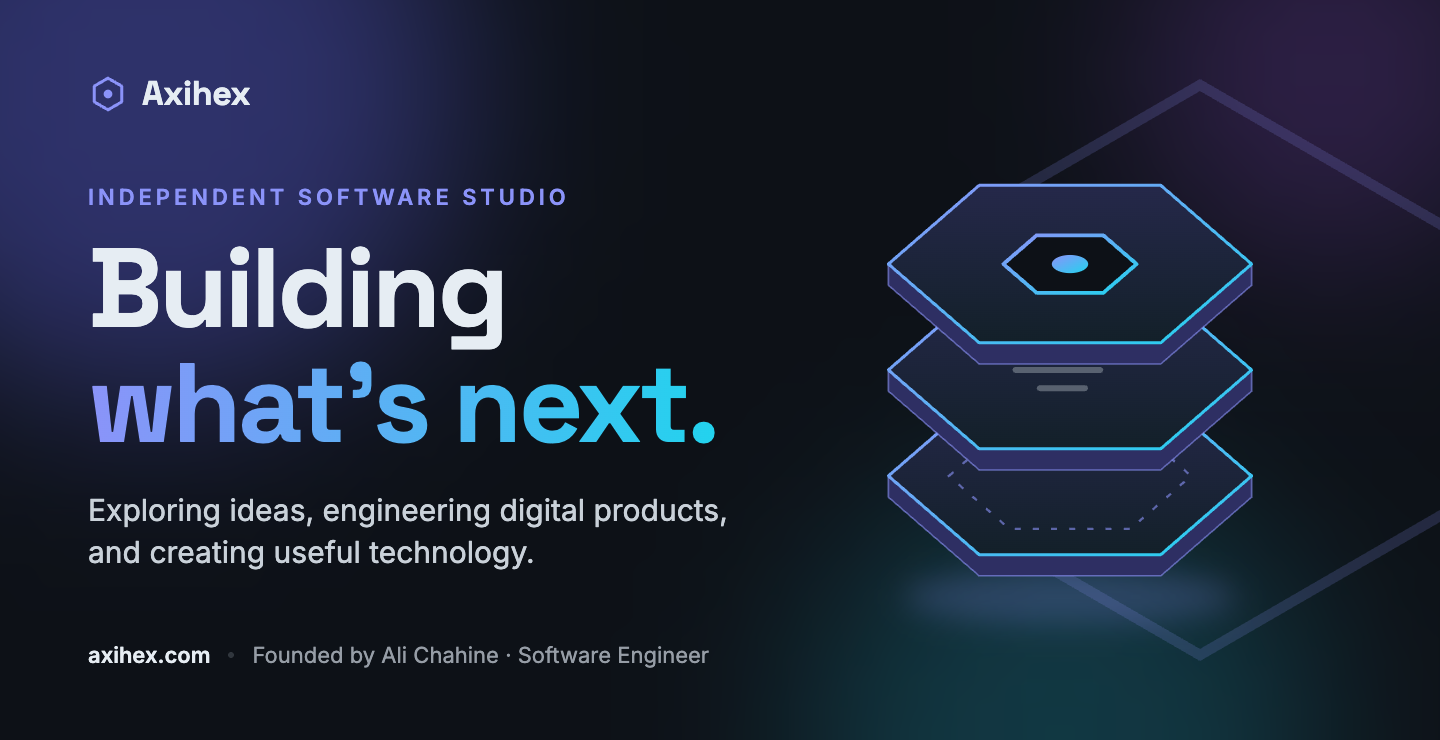
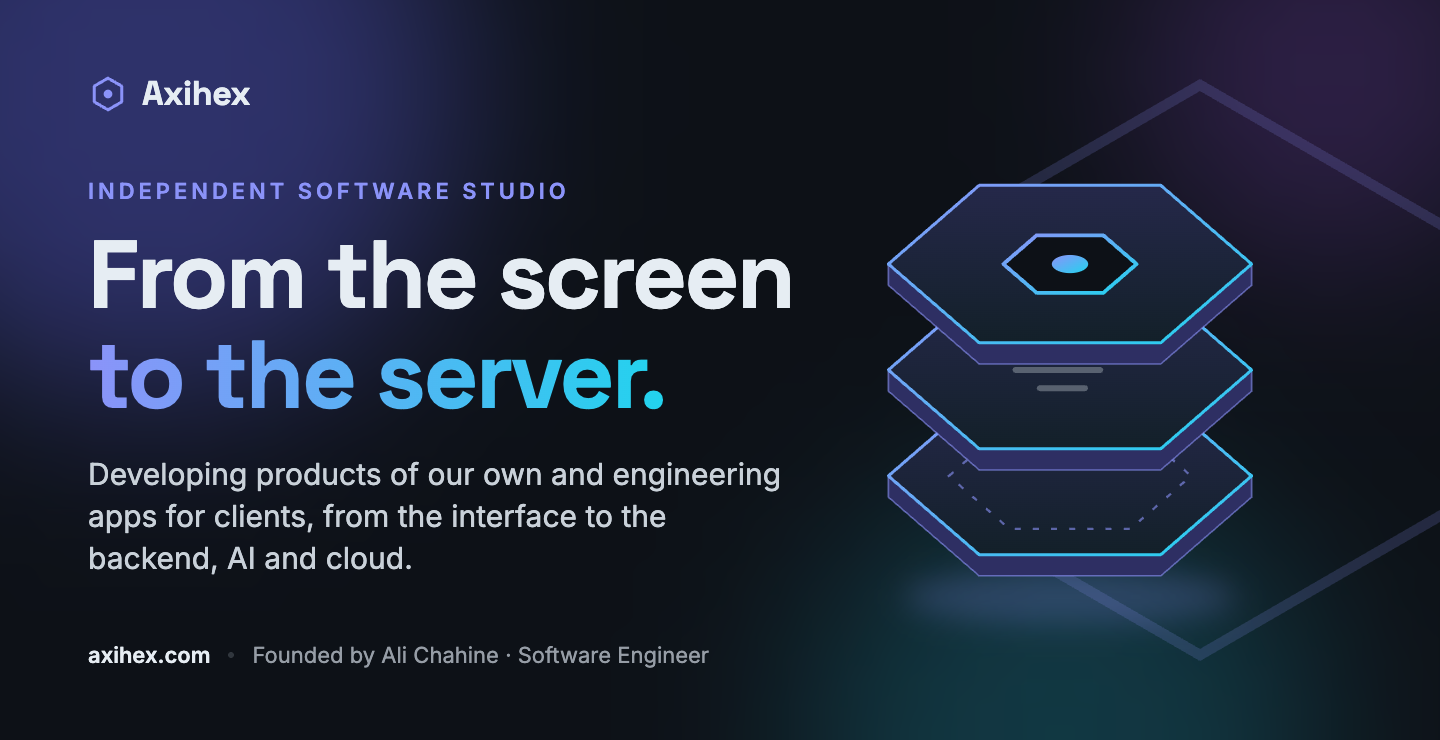
updates

Changed region(s): [[0.0625, 0.3108, 0.5625, 0.777], [0.0625, 0.2486, 0.4062, 0.2797]]

diff --git a/src/data/identity.ts b/src/data/identity.ts
@@ -14,20 +14,20 @@ export const definition =
 export const essence = 'Where engineering meets curiosity, creativity, and ambition.'
 
 export const philosophy =
-  'Ideas deserve to be explored, engineered, and transformed into technology that provides genuine value.'
+  'The best software is the kind people stop noticing: it simply works, every day.'
 
 export const mission =
   'To transform ideas into useful digital solutions through thoughtful engineering, experimentation, creativity, and practical problem-solving.'
 
 export const vision =
-  'To establish Axihex as a sustainable, recognized technology brand that develops, launches, and maintains its own products, while staying open to client projects, partnerships, and professional opportunities.'
+  'To establish Axihex as a sustainable and recognized technology brand that develops, launches, and maintains its own digital products, while remaining open to client projects, partnerships, and professional opportunities.'
 
 // Measured by the work, not the headcount.
 export const measure =
   'Success is measured by the quality, usefulness, and integrity of the work, not by the number of products, services, or people behind it.'
 
-// What Axihex is not limited to (shown struck through on /studio), then what it is.
-export const notLimitedTo = ['A software agency', 'A freelance business', 'A personal portfolio', 'A single-product startup']
+// What Axihex is more than (PDF §1: "not limited to"), shown as chips on /studio, then what it is.
+export const moreThan = ['A software agency', 'A freelance business', 'A personal portfolio', 'A single-product startup']
 export const isRather = 'A software studio rooted in engineering, with the freedom to pursue what comes next.'
 
 // What defines Axihex.
@@ -71,7 +71,7 @@ export const pillars: Pillar[] = [
   },
   {
     word: 'Showcase',
-    statement: 'Engineering expertise, proven through real work.',
+    statement: 'Real projects and achievements, from the studio and its founder.',
     text: "Credibility comes from genuine work: studio projects, client work, engineering achievements, and the founder's experience, each attributed accurately.",
     objective: 'Credibility through genuine work and achievements.',
     examples: ['Studio & client projects', 'Engineering milestones', "The founder's experience"],
@@ -80,7 +80,7 @@ export const pillars: Pillar[] = [
   },
   {
     word: 'Share',
-    statement: 'Technical knowledge and useful resources for the community.',
+    statement: 'Technical knowledge, insights, and useful tools for the community.',
     text: 'What is learned while building is worth passing on: articles, case studies, and lessons from real projects, shared without exposing anything confidential.',
     objective: 'Contribute to the community through meaningful technical work.',
     examples: ['Technical articles', 'Engineering case studies', 'Open-source & free tools'],
@@ -89,7 +89,7 @@ export const pillars: Pillar[] = [
   },
   {
     word: 'Grow',
-    statement: 'Foster innovation, collaboration, and opportunity.',
+    statement: 'Innovation, collaboration, and professional opportunities.',
     text: 'Growth through real work and relationships, not an artificial impression of size: new clients, partnerships, collaborators, and a team when the work justifies it.',
     objective: 'A sustainable foundation for technical, professional, and business growth.',
     examples: ['Client & partner relationships', 'Collaborating with makers', 'Reinvesting in new ideas'],
@@ -128,7 +128,7 @@ export const process: { title: string; text: string }[] = [
 // One brand, many forms: what can live under Axihex, and where it ships.
 export const umbrella: { title: string; text: string; icon: IconName }[] = [
   { title: 'Original products', text: 'Owned applications, platforms, and digital tools.', icon: 'box' },
-  { title: 'Client solutions', text: 'Freelance development and custom software projects.', icon: 'briefcase' },
+  { title: 'Client solutions', text: 'Custom web and mobile software, built for clients.', icon: 'briefcase' },
   { title: 'Research & innovation', text: 'Experiments, prototypes, and emerging technologies.', icon: 'flask' },
   { title: 'Knowledge & resources', text: 'Technical articles, insights, and community contributions.', icon: 'book' },
 ]

diff --git a/src/data/projects.ts b/src/data/projects.ts
@@ -21,7 +21,7 @@ export interface Project {
   //   'founder-led' → independent client work the founder delivered personally, not contracted under Axihex
   //   'experience'  → work done as an employee at a previous company
   category: ProjectCategory
-  // A short label on the card and the page, e.g. 'Founder-led · Client Project'.
+  // A short label on the card and the page, e.g. 'Client project'.
   context?: string
   role?: string // your role, e.g. 'Backend & AI engineer' or 'Solo developer'
   period?: string // when, e.g. 'Jan – Jun 2025' or '2024 – present'
@@ -63,9 +63,9 @@ export type ProjectCategory = 'studio' | 'founder-led' | 'experience'
 export const projects: Project[] = [
   {
     slug: 'boxmind-ai-backend',
-    title: 'boxMind AI: Enterprise AI Products',
+    title: 'boxMind AI: the backend behind its AI products',
     category: 'experience',
-    context: "Founder's Experience · boxMind AI",
+    context: 'As backend engineer at boxMind AI',
     summary: 'Built secure backend systems and AI integrations that helped bring enterprise AI products into production.',
     highlight: '~3 years building AI products for enterprises',
     cardTech: ['Python', 'FastAPI', 'RAG', 'AWS'],
@@ -156,7 +156,7 @@ The role went beyond code: it included the discussions and decisions on which fe
     slug: 'cinetwork',
     title: 'Cinetwork',
     category: 'founder-led',
-    context: 'Founder-led · Client Project',
+    context: 'Independent client project',
     summary: 'One film community, three platforms.',
     highlight: 'Live on Google Play, the App Store and the web',
     cardTech: ['React Native', 'Flask', 'MySQL', 'AWS'],
@@ -164,6 +164,12 @@ The role went beyond code: it included the discussions and decisions on which fe
     period: '2025 – present',
     team: 'Engineered for the client, in close collaboration',
     status: 'Live',
+    // The case study's key facts, shown big on the project's page.
+    metrics: [
+      { value: '3', label: 'platforms from one codebase: Android, iOS & web' },
+      { value: '2', label: 'app stores, live: Google Play & the App Store' },
+      { value: '1', label: 'engineer, from the database to the stores' },
+    ],
     problem:
       "The client's professional network for the film community needed to be engineered end to end: one app for Android, iOS and the web, with its backend and cloud.",
     result:
@@ -229,9 +235,9 @@ Before its official launch, Cinetwork got an exclusive sneak peek at the Byblos 
   },
   {
     slug: 'boxmind-academy',
-    title: 'boxMind Academy: AI Learning for Schools',
+    title: 'boxMind Academy: the backend for AI learning in schools',
     category: 'experience',
-    context: "Founder's Experience · boxMind AI",
+    context: 'As backend engineer at boxMind AI',
     summary: 'Designed the database and built the backend for an AI-supported learning platform used by schools.',
     highlight: 'Used by schools under contract',
     cardTech: ['Python', 'MySQL', 'AI Integration', 'AWS'],

diff --git a/src/features/studio/StudioPage.tsx b/src/features/studio/StudioPage.tsx
@@ -1,6 +1,6 @@
 // The Studio page (/studio, "Studio" in the navbar): Axihex's identity, purpose and vision in full.
 // The home page's Studio section is the short version and links here.
-//   1. Identity: the definition, and what Axihex is not limited to
+//   1. Identity: the official definition, and what Axihex is more than
 //   2. What defines Axihex: four traits
 //   3. Purpose: the five pillars, in depth
 //   4. Capabilities: focused in engineering, flexible in what gets built
@@ -21,9 +21,10 @@ import {
   channels,
   definition,
   essence,
+  measure,
+  moreThan,
   isRather,
   mission,
-  notLimitedTo,
   philosophy,
   pillars,
   process,
@@ -59,12 +60,10 @@ function StudioPage() {
         <p className="identity__lead">{definition}</p>
 
         <div className="identity__not">
-          <p className="identity__not-label">Not limited to</p>
+          <p className="identity__not-label">More than</p>
           <ul>
-            {notLimitedTo.map((item) => (
-              <li key={item}>
-                <s>{item}</s>
-              </li>
+            {moreThan.map((item) => (
+              <li key={item}>{item}</li>
             ))}
           </ul>
           <p className="identity__is">
@@ -90,7 +89,7 @@ function StudioPage() {
         </ul>
         <p className="identity__footnote">
           Independent doesn't mean solo: Axihex collaborates with clients, partners, and other organizations, and its founder
-          remains open to employment.
+          stays open to engineering roles.
         </p>
       </section>
 
@@ -237,6 +236,7 @@ function StudioPage() {
             <p>{vision}</p>
           </div>
         </div>
+        <p className="direction__measure">{measure}</p>
         <ul className="value-grid">
           {values.map((value) => (
             <li key={value.title}>
@@ -258,7 +258,7 @@ function StudioPage() {
       <section id="studio-contact" className="section studio-cta">
         <p className="studio-cta__essence">{essence}</p>
         <h2 className="studio-cta__title">
-          Building <GradientText text="what's next." />
+          Have a project in mind? <GradientText text="Let's scope it." />
         </h2>
         <div className="hero-actions studio-cta__actions">
           <Link to="/#contact" state={{ topic: 'project' }} className="button">

diff --git a/scripts/prerender.ts b/scripts/prerender.ts
@@ -14,9 +14,10 @@ import { studio } from '../src/data/studio.ts'
 import {
   capabilities,
   definition,
+  measure,
+  moreThan,
   isRather,
   mission,
-  notLimitedTo,
   philosophy,
   pillars,
   process,
@@ -88,7 +89,7 @@ export function homeBody(posts: Update[]) {
       list(posts.slice(0, 3).map((post) => `${link(`/blog/${post.slug}`, post.title)} ${esc(post.summary)}`)) +
       `<p>${link('/blog', 'All posts')}</p></section>` +
       `<section id="contact">${el('h2', 'Let’s talk.')}` +
-      el('p', 'A project in mind, an idea to build together, a collaboration, or an engineering role. Reach out by email, on LinkedIn, or with the form.') +
+      el('p', 'A project in mind, an idea to build together, or a collaboration. Reach out by email, on LinkedIn, or with the form.') +
       `${contactLinks}</section>`,
   )
 }
@@ -134,7 +135,7 @@ export function founderBody() {
 export function studioBody() {
   return wrap(
     `<header>${el('p', 'Identity, purpose & vision')}${el('h1', 'Where engineering meets curiosity.')}${el('p', definition)}` +
-      el('p', `Not limited to: ${notLimitedTo.join(', ')}. ${isRather}`) +
+      el('p', `More than: ${moreThan.join(', ')}. ${isRather}`) +
       '</header>' +
       `<section id="defines">${el('h2', 'What defines Axihex')}` +
       list(traits.map((t) => `<strong>${esc(t.title)}</strong>: ${esc(t.text)}`)) +
@@ -157,7 +158,7 @@ export function studioBody() {
       list(umbrella.map((u) => `<strong>${esc(u.title)}</strong>: ${esc(u.text)}`)) +
       '</section>' +
       `<section id="values">${el('h2', 'What we stand for')}` +
-      el('h3', 'Mission') + el('p', mission) + el('h3', 'Long-term vision') + el('p', vision) +
+      el('h3', 'Mission') + el('p', mission) + el('h3', 'Long-term vision') + el('p', vision) + el('p', measure) +
       list(values.map((v) => `<strong>${esc(v.title)}</strong>: ${esc(v.text)}`)) +
       el('p', philosophy) +
       `<p>${link('/#contact', 'Start a project')} · ${link('/background', 'Meet the founder')}</p>` +

diff --git a/src/data/studio.ts b/src/data/studio.ts
@@ -1,12 +1,11 @@
 import type { IconName } from '../components/iconNames.ts'
 
-// The proof strip under the home hero's buttons: where the work has actually shipped (The CI
-// Network is live on all three; everything runs on AWS). Keep it true: only places it's live.
+// The proof strip under the home hero's buttons: where the work has actually shipped (Cinetwork
+// is live on all three). Keep it true: only places it's live.
 export const proof: { icon: IconName; label: string }[] = [
   { icon: 'smartphone', label: 'App Store' },
   { icon: 'smartphone', label: 'Google Play' },
   { icon: 'globe', label: 'Web' },
-  { icon: 'cloud', label: 'AWS' },
 ]
 
 // The home page's Studio section (About.tsx). Also read by the build (scripts/prerender.ts), which
@@ -17,11 +16,11 @@ export const studio = {
   title: 'Small studio.',
   titleAccent: 'Serious engineering.', // in the accent gradient
   // One short paragraph: what Axihex does, for whom. The details are on the Studio page (/studio).
-  text: 'Axihex is a founder-led software studio. We explore ideas, build products of our own, and engineer web, mobile, backend, AI and cloud software for clients.',
+  text: 'Axihex is a founder-led software studio. We explore ideas, develop products of our own, and engineer web, mobile, backend, AI and cloud software for clients.',
   // The pillars, capabilities and the rest of the identity live in src/data/identity.ts.
   pillarsTitle: 'Five pillars.',
   pillarsAccent: 'One studio.',
   // The one line about who is behind it, with a quiet link to the founder's page (/background).
-  founderNote: 'Founder-led, rooted in years of real engineering work.',
+  founderNote: 'Rooted in years of real engineering work.',
   founderLink: 'Meet the founder',
 }

diff --git a/scripts/og-image.html b/scripts/og-image.html
@@ -18,7 +18,7 @@ body{background:#0d1117;color:#e6edf3;font-family:Inter,system-ui,sans-serif;pos
 .brand svg circle,.hex circle{fill:#8b93f9;stroke:none}
 .main{margin-top:auto;margin-bottom:auto;max-width:760px}
 .eyebrow{color:#8b93f9;font-weight:600;font-size:22px;letter-spacing:.18em;text-transform:uppercase;margin-bottom:22px}
-h1{font-family:'Space Grotesk';font-weight:700;font-size:112px;line-height:1.02;letter-spacing:-.03em}
+h1{font-family:'Space Grotesk';font-weight:700;font-size:96px;line-height:1.04;letter-spacing:-.03em;white-space:nowrap}
 h1 span{background:linear-gradient(90deg,#8b93f9,#22d3ee);-webkit-background-clip:text;background-clip:text;color:transparent}
 p.intro{margin-top:28px;font-size:30px;line-height:1.4;color:#c9d1d9;max-width:700px}
 .foot{display:flex;gap:18px;align-items:center;font-size:22px;color:#969da6}
@@ -49,8 +49,8 @@ p.intro{margin-top:28px;font-size:30px;line-height:1.4;color:#c9d1d9;max-width:7
   <div class="brand"><svg viewBox="0 0 24 24"><path d="M12 2.5 20.2 7.25v9.5L12 21.5 3.8 16.75v-9.5Z"/><circle cx="12" cy="12" r="2.6"/></svg>Axihex</div>
   <div class="main">
     <div class="eyebrow">Independent software studio</div>
-    <h1>Building<br><span>what's next.</span></h1>
-    <p class="intro">Exploring ideas, engineering digital products, and creating useful technology.</p>
+    <h1>From the screen<br><span>to the server.</span></h1>
+    <p class="intro">Developing products of our own and engineering apps for clients, from the interface to the backend, AI and cloud.</p>
   </div>
   <div class="foot"><strong>axihex.com</strong><span class="dot"></span><span>Founded by Ali Chahine · Software Engineer</span></div>
 </div>

diff --git a/src/data/profile.ts b/src/data/profile.ts
@@ -7,12 +7,13 @@ export const profile = {
   brand: 'Axihex',
   site: 'https://axihex.com',
   // The small label above the hero's headline: what Axihex is.
-  role: 'Independent, founder-led software studio',
-  // The hero's headline. The words in "headlineAccent" are shown in the accent gradient.
-  headline: 'Building',
-  headlineAccent: "what's next.",
-  // One or two sentences under the headline.
-  intro: 'Exploring ideas, engineering digital products, and creating useful technology.',
+  role: 'Independent software studio',
+  // The hero's headline. The words in "headlineAccent" are shown in the accent gradient. It names
+  // the three layers drawn next to it (interface, backend, infrastructure): what Axihex engineers.
+  headline: 'From the screen',
+  headlineAccent: 'to the server.',
+  // One or two sentences under the headline: what Axihex does, concretely.
+  intro: 'We explore ideas, develop products of our own, and engineer web and mobile apps for clients, from the interface to the backend, AI and cloud.',
   // The founder line at the bottom of the hero.
   founderTitle: 'Software Engineer',
   location: 'Beirut, Lebanon',
@@ -26,6 +27,7 @@ export const profile = {
   // Typed out one by one under the home page's headline, like code being written. Keep each one short.
   // One per core capability (src/data/identity.ts): web, mobile, backend, AI, cloud.
   building: [
+    'products of our own',
     'web apps, end to end',
     'cross-platform mobile apps',
     'secure APIs & databases',

diff --git a/src/features/contact/Contact.tsx b/src/features/contact/Contact.tsx
@@ -103,8 +103,8 @@ function Contact() {
           {/* Axihex welcomes client projects and collaborations, and the founder is open to roles:
               the intro names all three, the form's topic choices (src/data/identity.ts) too. */}
           <p className="contact-intro">
-            A project in mind, an idea to build together, a collaboration, or an engineering role. Reach out by email, on
-            LinkedIn, or with the form.
+            A project in mind, an idea to build together, or a collaboration. Reach out by email, on LinkedIn, or with the
+            form.
           </p>
           <ul className="contact-tiles">
             {/* Phone numbers only when SHOW_PHONE_NUMBERS is on (see the top of this file). */}
@@ -198,7 +198,9 @@ function Contact() {
               <fieldset className="contact-topics">
                 <legend>What brings you here?</legend>
                 <div className="contact-topics__list">
-                  {topics.map((item) => (
+                  {/* "A role for the founder" only shows when you come from the founder's page (its
+                      "Get in touch"): the studio's own pages stay about the studio's work. */}
+                  {topics.filter((item) => item.id !== 'role' || wantedTopic === 'role').map((item) => (
                     <button
                       key={item.id}
                       type="button"

diff --git a/src/data/seo.ts b/src/data/seo.ts
@@ -15,11 +15,11 @@ import type { Update } from './updates.ts'
 export const SITE_URL = profile.site // 'https://axihex.com', no slash at the end
 
 // The brand first, its founder after it (people also search for the founder by name).
-export const SITE_TITLE = `${profile.brand} | Building what's next · Founded by ${profile.name}`
+export const SITE_TITLE = `${profile.brand} | Independent software studio`
 
 export const HOME_DESCRIPTION =
-  `${profile.brand} is an independent, founder-led software studio by ${profile.name}: ` +
-  'exploring ideas, engineering digital products, and creating useful technology.'
+  `${profile.brand} is an independent software studio by ${profile.name}. It explores ideas, develops products ` +
+  'of its own, and engineers web and mobile apps for clients, from the interface to the backend, AI and cloud.'
 
 // The Studio page (/studio): the identity, the five pillars and the direction.
 export const STUDIO_DESCRIPTION =

diff --git a/src/features/home/HomeHero.tsx b/src/features/home/HomeHero.tsx
@@ -38,15 +38,15 @@ function HomeHero() {
           <Link to="/#projects" className="button">
             Explore our work <span aria-hidden="true">→</span>
           </Link>
-          {/* The Contact form opens with "A project" chosen (Contact.tsx). */}
-          <Link to="/#contact" state={{ topic: 'project' }} className="button button-outline">
-            Start a project
+          {/* The whole studio, not only client work: its pillars, products and direction (/studio). */}
+          <Link to="/studio" className="button button-outline">
+            Discover the studio
           </Link>
         </div>
 
         {/* Proof the work is real: where it has shipped. */}
         <div className="hero__proof">
-          <span className="hero__proof-label">Shipped to</span>
+          <span className="hero__proof-label">Our work is live on</span>
           <ul>
             {proof.map((item) => (
               <li key={item.label}>

diff --git a/src/styles/global.css b/src/styles/global.css
@@ -7603,11 +7603,6 @@ a {
   font-size: 0.9rem;
 }
 
-.identity__not s {
-  text-decoration-color: color-mix(in srgb, var(--accent) 75%, transparent);
-  text-decoration-thickness: 2px;
-}
-
 .identity__is {
   display: flex;
   align-items: center;
@@ -9139,4 +9134,10 @@ a {
   overflow: hidden;
   white-space: nowrap;
   text-overflow: ellipsis;
+}
+
+/* Studio page: the "success is measured by…" line between mission/vision and the values. */
+.mv + .direction__measure {
+  margin: 18px 0 28px;
+  text-align: center;
 }

diff --git a/src/features/projects/Projects.tsx b/src/features/projects/Projects.tsx
@@ -1,6 +1,6 @@
 // The "Selected work" section: every project in one grid, studio work first, then the founder's
 // client work, then his work at previous employers. The first card is featured (full width).
-// Each card's label (its "context", e.g. 'Founder-led · Client Project') says who delivered it.
+// Each card's label (its "context", e.g. 'Client project') says who delivered it.
 
 import { selectedProjects } from '../../data/projects.ts'
 import ProjectCard from './ProjectCard.tsx'
